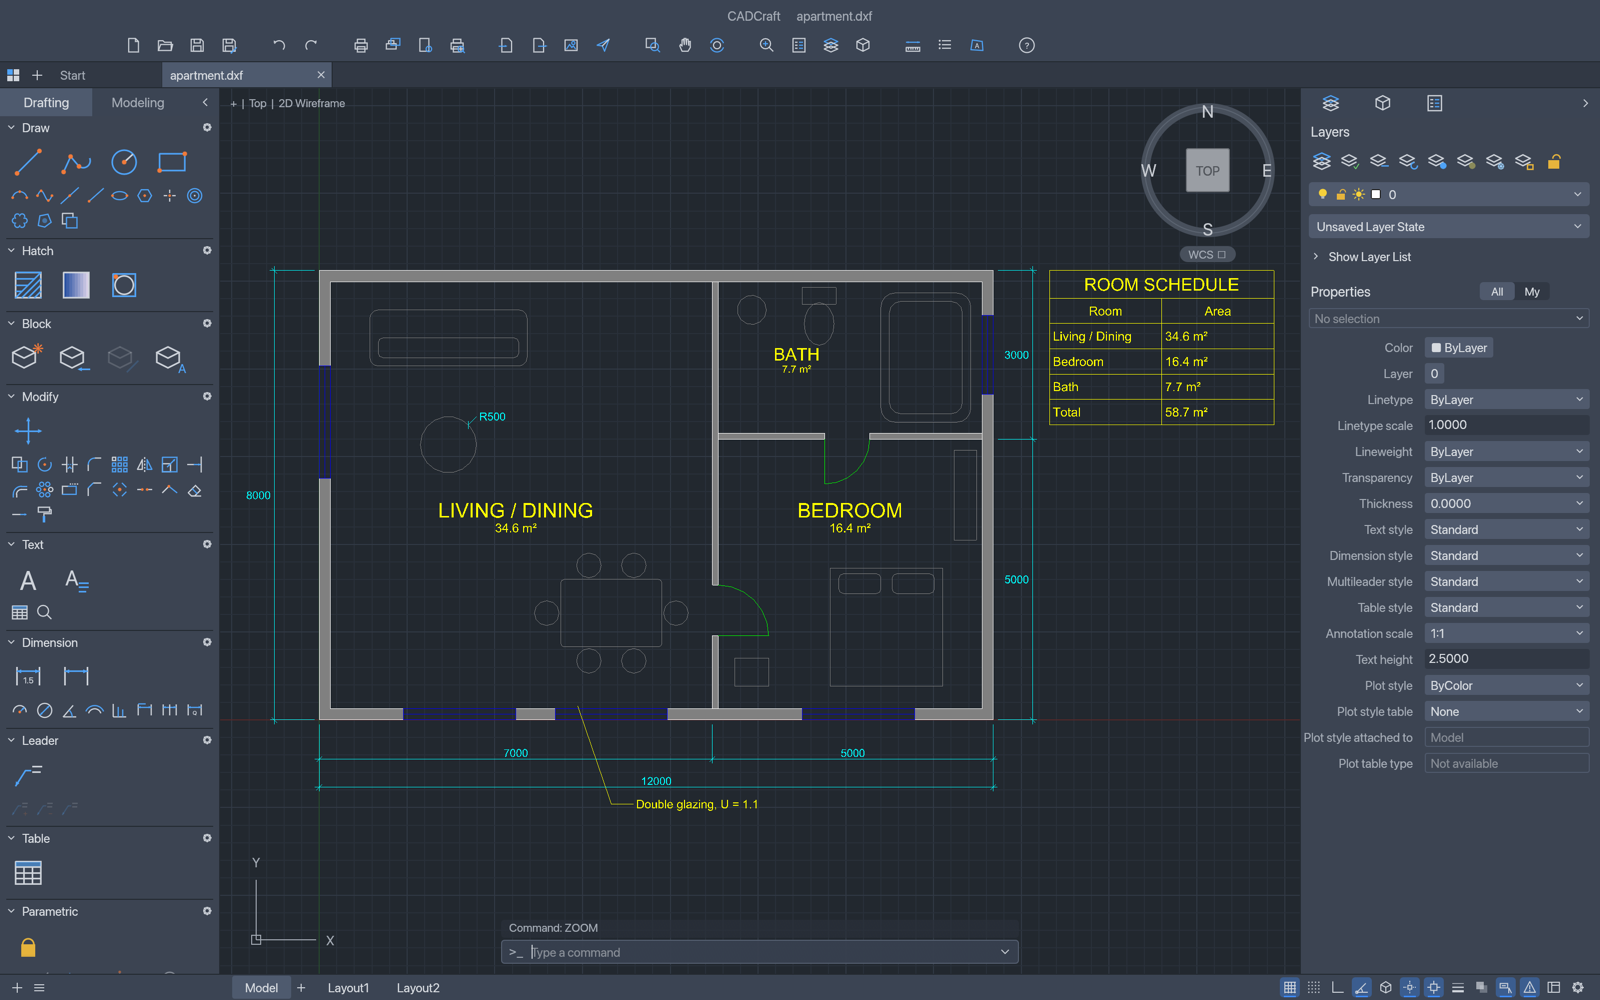
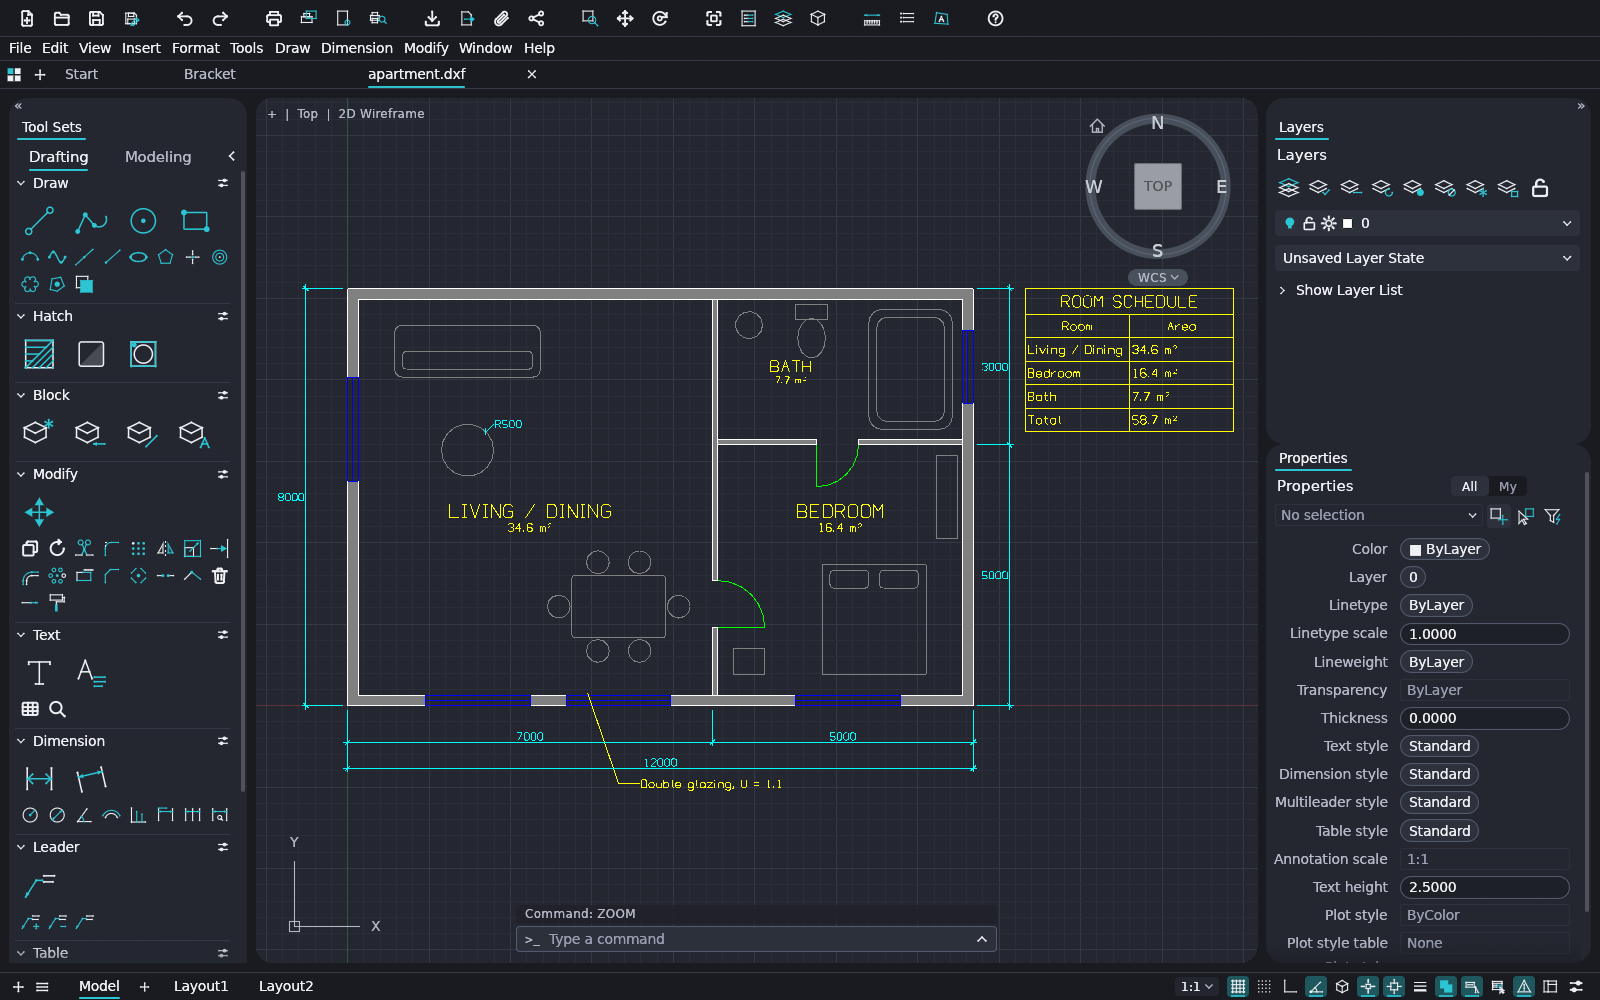
Show Forja's Nodalia interface in the README
New screenshots of the apartment plan, a paper-space layout and the
bracket in the light theme, and a README that describes Forja as it
is now rather than as an imported engine.

Claude-Session: https://claude.ai/code/session_018FLRxae6NEj5RWk5iBmDyP

diff --git a/README.md b/README.md
@@ -6,90 +6,131 @@
     </picture>
   </a>
   <br><br>
-  <img src="https://raw.githubusercontent.com/danielmigueltejedor/forja/main/assets/app-icon/hicolor/512x512/apps/dev.danielmiguelt.Forja.png" width="160" alt="Forja">
+  <img src="assets/app-icon/hicolor/512x512/apps/dev.danielmiguelt.Forja.png" width="160" alt="Forja">
   <h1>Forja</h1>
-  <p><strong>A CAD application for 2D drafting and DWG/DXF work for the Nodalia suite, built on the Forja engine.</strong></p>
+  <p><strong>A native CAD application for 2D drafting and DWG/DXF drawings, part of the Nodalia suite.</strong></p>
 
   <p>
+    <img src="https://img.shields.io/badge/version-0.1.0-96501F" alt="Version 0.1.0">
     <img src="https://img.shields.io/badge/status-early%20stage-orange" alt="Early stage">
-    <img src="https://img.shields.io/badge/engine-CadCraft-96501F" alt="Forja engine">
     <img src="https://img.shields.io/badge/Rust-native-dea584?logo=rust&logoColor=black" alt="Native Rust">
     <img src="https://img.shields.io/badge/license-MIT%20OR%20Apache--2.0-2ea44f" alt="MIT OR Apache-2.0">
   </p>
 
   <p>
-    <a href="#overview">Overview</a> ·
-    <a href="#what-you-get-today">Today</a> ·
+    <a href="#screenshots">Screenshots</a> ·
+    <a href="#what-it-does">What it does</a> ·
     <a href="#build-and-run">Build</a> ·
+    <a href="#agents-and-the-command-line">Agents</a> ·
     <a href="#project-status">Status</a> ·
-    <a href="#keeping-up-with-upstream">Upstream</a> ·
     <a href="#the-nodalia-suite">Suite</a> ·
     <a href="#license">License</a>
   </p>
 </div>
 
+<p align="center">
+  <img src="docs/images/ui-apartment.png" width="100%" alt="Forja with an apartment floor plan open: grey walls, blue windows, green door swings, furniture outlines, yellow room names and a room schedule table, cyan dimensions; Tool Sets on the left, Layers and Properties on the right, the command line at the bottom">
+  <br><sub><b>Apartment plan</b> (<a href="examples/apartment.dxf">examples/apartment.dxf</a>): hatched walls, room labels, a table, a multileader and dimensions, all drawn with Forja's own commands.</sub>
+</p>
+
 ---
 
 ## Overview
 
-**Forja** is the CAD application for 2D drafting and DWG/DXF work of [Nodalia](https://getnodalia.com). It is built on the engine of
-[Forja](https://github.com/danielmigueltejedor/forja), which lives in this repository and is kept up to
-date with upstream.
+**Forja** is the CAD application of [Nodalia](https://getnodalia.com). You draft the way decades of
+habit expect: type `L`, click two points, type `@5<45`, press Enter. It opens and saves DXF and DWG,
+lays drawings out on paper, and plots them to PDF. It is written in Rust, with no Electron and no web
+view, and it wears Nodalia Design: rounded islands, bold icons and the suite's own window controls on
+Linux.
 
 > [!IMPORTANT]
-> **Forja is at an early stage.** What runs today is the upstream application.
-> Nodalia's own interface is not wired in yet and there are no published builds.
+> **Forja is at an early stage.** The first release, 0.1.0, targets Linux. Expect rough edges, and
+> keep a copy of drawings that matter.
 
-## What you get today
+## Screenshots
 
-- The Forja engine.
-- The upstream desktop application. Crate and binary names are still upstream's.
-- The engine's own feature description, kept as [`docs/upstream-readme.md`](docs/upstream-readme.md).
+<table>
+  <tr>
+    <td width="50%"><img src="docs/images/ui-layout.png" alt="A paper-space layout in Forja: a white sheet with a viewport showing the apartment plan at scale, the status bar showing the Layout1 tab and the PAPER toggle"></td>
+    <td width="50%"><img src="docs/images/ui-bracket.png" alt="Forja in its light theme with a mounting bracket part drawing: front view with bolt holes, centre lines and dimensions, a hatched section view, notes and a title block"></td>
+  </tr>
+  <tr>
+    <td><sub><b>Layouts</b>: paper space with viewports, page setups and plotting to PDF.</sub></td>
+    <td><sub><b>Light theme</b>: a two-view part drawing with centre lines, a section hatch and a title block.</sub></td>
+  </tr>
+</table>
+
+## What it does
+
+- **The command line you know.** Prompts with clickable keywords, AutoComplete, aliases, relative
+  and polar input (`@dx,dy`, `@d<a`), direct distance entry, object snaps, polar tracking, ortho,
+  window and crossing selection, grips, and Enter or right-click to repeat.
+- **Drafting and editing.** Lines, polylines, circles, arcs, rectangles, polygons, ellipses,
+  splines, text and multiline text; move, copy, rotate, scale, mirror, stretch, offset, trim,
+  extend, fillet, chamfer, arrays and more.
+- **Annotation.** Dimensions with full dimension styles that follow the geometry, multileaders,
+  tables, hatches and gradients, blocks with attributes, TrueType fonts and a single-stroke
+  drafting font of its own.
+- **Layers and properties.** A layers palette and manager, layer tools, and a properties palette
+  that edits any selection.
+- **Open files.** DXF read and write, DWG open and save, PDF plotting, SVG and PNG export.
+- **Layouts and plotting.** Paper-space layouts, scaled and locked viewports, page setups.
+- **Parametric drawing.** Geometric and dimensional constraints that re-solve after every edit.
+- **Many languages.** English, Spanish and seventeen more interface languages, switched live
+  ([details](docs/localization.md)).
+
+The full, honest list of what works and what does not yet is in [ROADMAP.md](ROADMAP.md) and
+[docs/gaps.md](docs/gaps.md).
 
 ## Build and run
 
-You need a recent stable Rust toolchain.
+You need Rust 1.95 or later.
 
 ```bash
 git clone https://github.com/danielmigueltejedor/forja.git
 cd forja
-cargo run --release -p forja
+cargo run --release -p forja -- --sample      # opens the sample drawing
 ```
 
-The crate is still called `forja`; it will be renamed with the product.
+Then type at the command line:
+
+```text
+line 0,0 @10,0 @0,5 c          a closed triangle
+circle 5,2 1                    a circle
+zoom e                          zoom to the drawing
+```
+
+Forja keeps its settings and its log in `~/.config/forja/` on Linux.
+
+## Agents and the command line
+
+Every menu item, tool and prompt is a command, so scripts and agents can do anything a person can:
+
+```bash
+forja-cli mcp                                    # MCP server on stdio
+forja-cli info drawing.dxf                       # what is in a drawing
+forja-cli convert drawing.dwg drawing.svg        # convert or export
+forja-cli run --sample --script 'CIRCLE 22,3 1\n' --save out.dxf --export out.png
+```
+
+The desktop app also takes a JSON control channel (`--control PORT`). See [docs/cli.md](docs/cli.md),
+[docs/mcp.md](docs/mcp.md) and [docs/control-protocol.md](docs/control-protocol.md).
 
 ## Project status
 
 | Area | State |
 |---|---|
-| Engine | Imported from `danielmigueltejedor/forja` and tracked in [`docs/upstream.md`](docs/upstream.md) |
-| Product name | Pending: crates and binary still carry upstream's name (`forja`) |
-| App icon | Done: portrait of Leonardo da Vinci |
-| Nodalia interface | Not started |
-| Shared interface resources | Planned: the Nodalia apps will share interface components and styles |
-| Installable packages | None published |
-
-## Changes on top of upstream
-
-Forja already carries fixes that are not in Forja's `main`:
-
-- **DWG/DXF layouts, MTEXT and native open.** The work of upstream pull request
-  [#1086](https://github.com/danielmigueltejedor/forja/pull/1086): deferred layouts and native viewport
-  references are preserved, first-line MTEXT units are resolved, and dense polyline grips are cached.
-- **GNOME Wayland window controls.** Upstream pull request
-  [#1368](https://github.com/danielmigueltejedor/forja/pull/1368), still open: window controls without
-  bundled fonts.
-
-## Keeping up with upstream
-
-[`docs/upstream.md`](docs/upstream.md) records which upstream commit is integrated. A weekly job
-renames upstream's new commits to Forja's names and opens a pull request with them, so Forja's own
-changes are kept and conflicts are resolved in the open.
+| Drafting, editing, annotation | Working; see [ROADMAP.md](ROADMAP.md) |
+| DXF and DWG | Open and save; some entities are not kept yet ([file-format-parity.md](docs/file-format-parity.md)) |
+| Nodalia Design interface | Done: islands, NDL icons and dialogs, Linux window controls |
+| Native window controls | macOS and Windows keep the system's own |
+| Installable packages | 0.1.0 for Linux, about to be published |
 
 ## App icon
 
 Nodalia app icons are black-and-white portraits of historical figures over the app colour.
-Forja's is Leonardo da Vinci, engineer and master of technical drawing. Provenance and licence are in [`assets/app-icon/`](assets/app-icon/).
+Forja's is Leonardo da Vinci, engineer and master of technical drawing. Provenance and licence are
+in [`assets/app-icon/`](assets/app-icon/).
 
 ## The Nodalia suite
 
@@ -98,9 +139,5 @@ project developed in public by [Daniel Miguel Tejedor](https://danielmigueltejed
 
 ## License
 
-`MIT OR Apache-2.0`, as upstream. The licence files and `NOTICE` of Forja are kept.
-See [`LICENSE-MIT`](LICENSE-MIT) and [`LICENSE-APACHE`](LICENSE-APACHE).
-
-## Credits
-
-Forja would not exist without [Forja](https://github.com/danielmigueltejedor/forja) and its contributors.
+`MIT OR Apache-2.0`. See [`LICENSE-MIT`](LICENSE-MIT), [`LICENSE-APACHE`](LICENSE-APACHE) and
+[`NOTICE`](NOTICE). Every asset and its source is listed in [`ATTRIBUTION.md`](ATTRIBUTION.md).

diff --git a/ATTRIBUTION.md b/ATTRIBUTION.md
@@ -47,9 +47,9 @@ Generated-in-code assets are original and have no file to list:
 | `packaging/macos/dmg/background.svg` | @XusBadia | original work for this repository (2026-10-08), "Forja macOS DMG window background"; derived from the Forja app icon (`assets/app-icon/`, referenced via `<image>`, not copied); text is outlined Inter / JetBrains Mono glyph paths (OFL fonts the project already uses); no third-party material modified | MIT OR Apache-2.0 (same as the code: `LICENSE-MIT`, `LICENSE-APACHE`) | Finder window background of the macOS DMG; `packaging/macos/dmg/generate.py` renders it to `background.tiff` (see `packaging/macos/dmg/README.md`) |
 | `packaging/macos/dmg/background.tiff` | @XusBadia | Rendered from `packaging/macos/dmg/background.svg` by `packaging/macos/dmg/generate.py` | MIT OR Apache-2.0 (same as the code: `LICENSE-MIT`, `LICENSE-APACHE`) | 1x + 2x HiDPI TIFF for the macOS DMG window; includes the app icon (see its row) and LittleCMS's built-in sRGB profile ("No copyright, use freely") |
 | `examples/apartment.dxf` | CADCraft contributors | sample drawing made with forja-cli commands | MIT OR Apache-2.0 | Original |
-| `docs/images/ui-apartment.png` | CADCraft contributors | screenshot of Forja itself (examples/apartment.dxf) | MIT OR Apache-2.0 | Original; no Autodesk UI |
-| `docs/images/ui-layout.png` | CADCraft contributors | screenshot of Forja itself (a layout of examples/apartment.dxf) | MIT OR Apache-2.0 | Original; no Autodesk UI |
-| `docs/images/ui-bracket.png` | CADCraft contributors | screenshot of Forja itself (sample drawing generated in code) | MIT OR Apache-2.0 | Original; no Autodesk UI |
+| `docs/images/ui-apartment.png` | Forja contributors | screenshot of Forja itself (examples/apartment.dxf) | MIT OR Apache-2.0 | Original; no Autodesk UI |
+| `docs/images/ui-layout.png` | Forja contributors | screenshot of Forja itself (a layout of examples/apartment.dxf) | MIT OR Apache-2.0 | Original; no Autodesk UI |
+| `docs/images/ui-bracket.png` | Forja contributors | screenshot of Forja itself, light theme (sample drawing generated in code) | MIT OR Apache-2.0 | Original; no Autodesk UI |
 | `docs/brand/artcraft-logo-white.png` | ArtCraft Team | ArtCraft brand kit | ArtCraft brand terms (`docs/brand/LICENSE-brand.txt`) | Trademark, not open source |
 | `docs/brand/artcraft-logo-white.svg` | ArtCraft Team | ArtCraft brand kit | ArtCraft brand terms (`docs/brand/LICENSE-brand.txt`) | Trademark, not open source |
 | `docs/brand/artcraft-logo.png` | ArtCraft Team | ArtCraft brand kit | ArtCraft brand terms (`docs/brand/LICENSE-brand.txt`) | Trademark, not open source |
